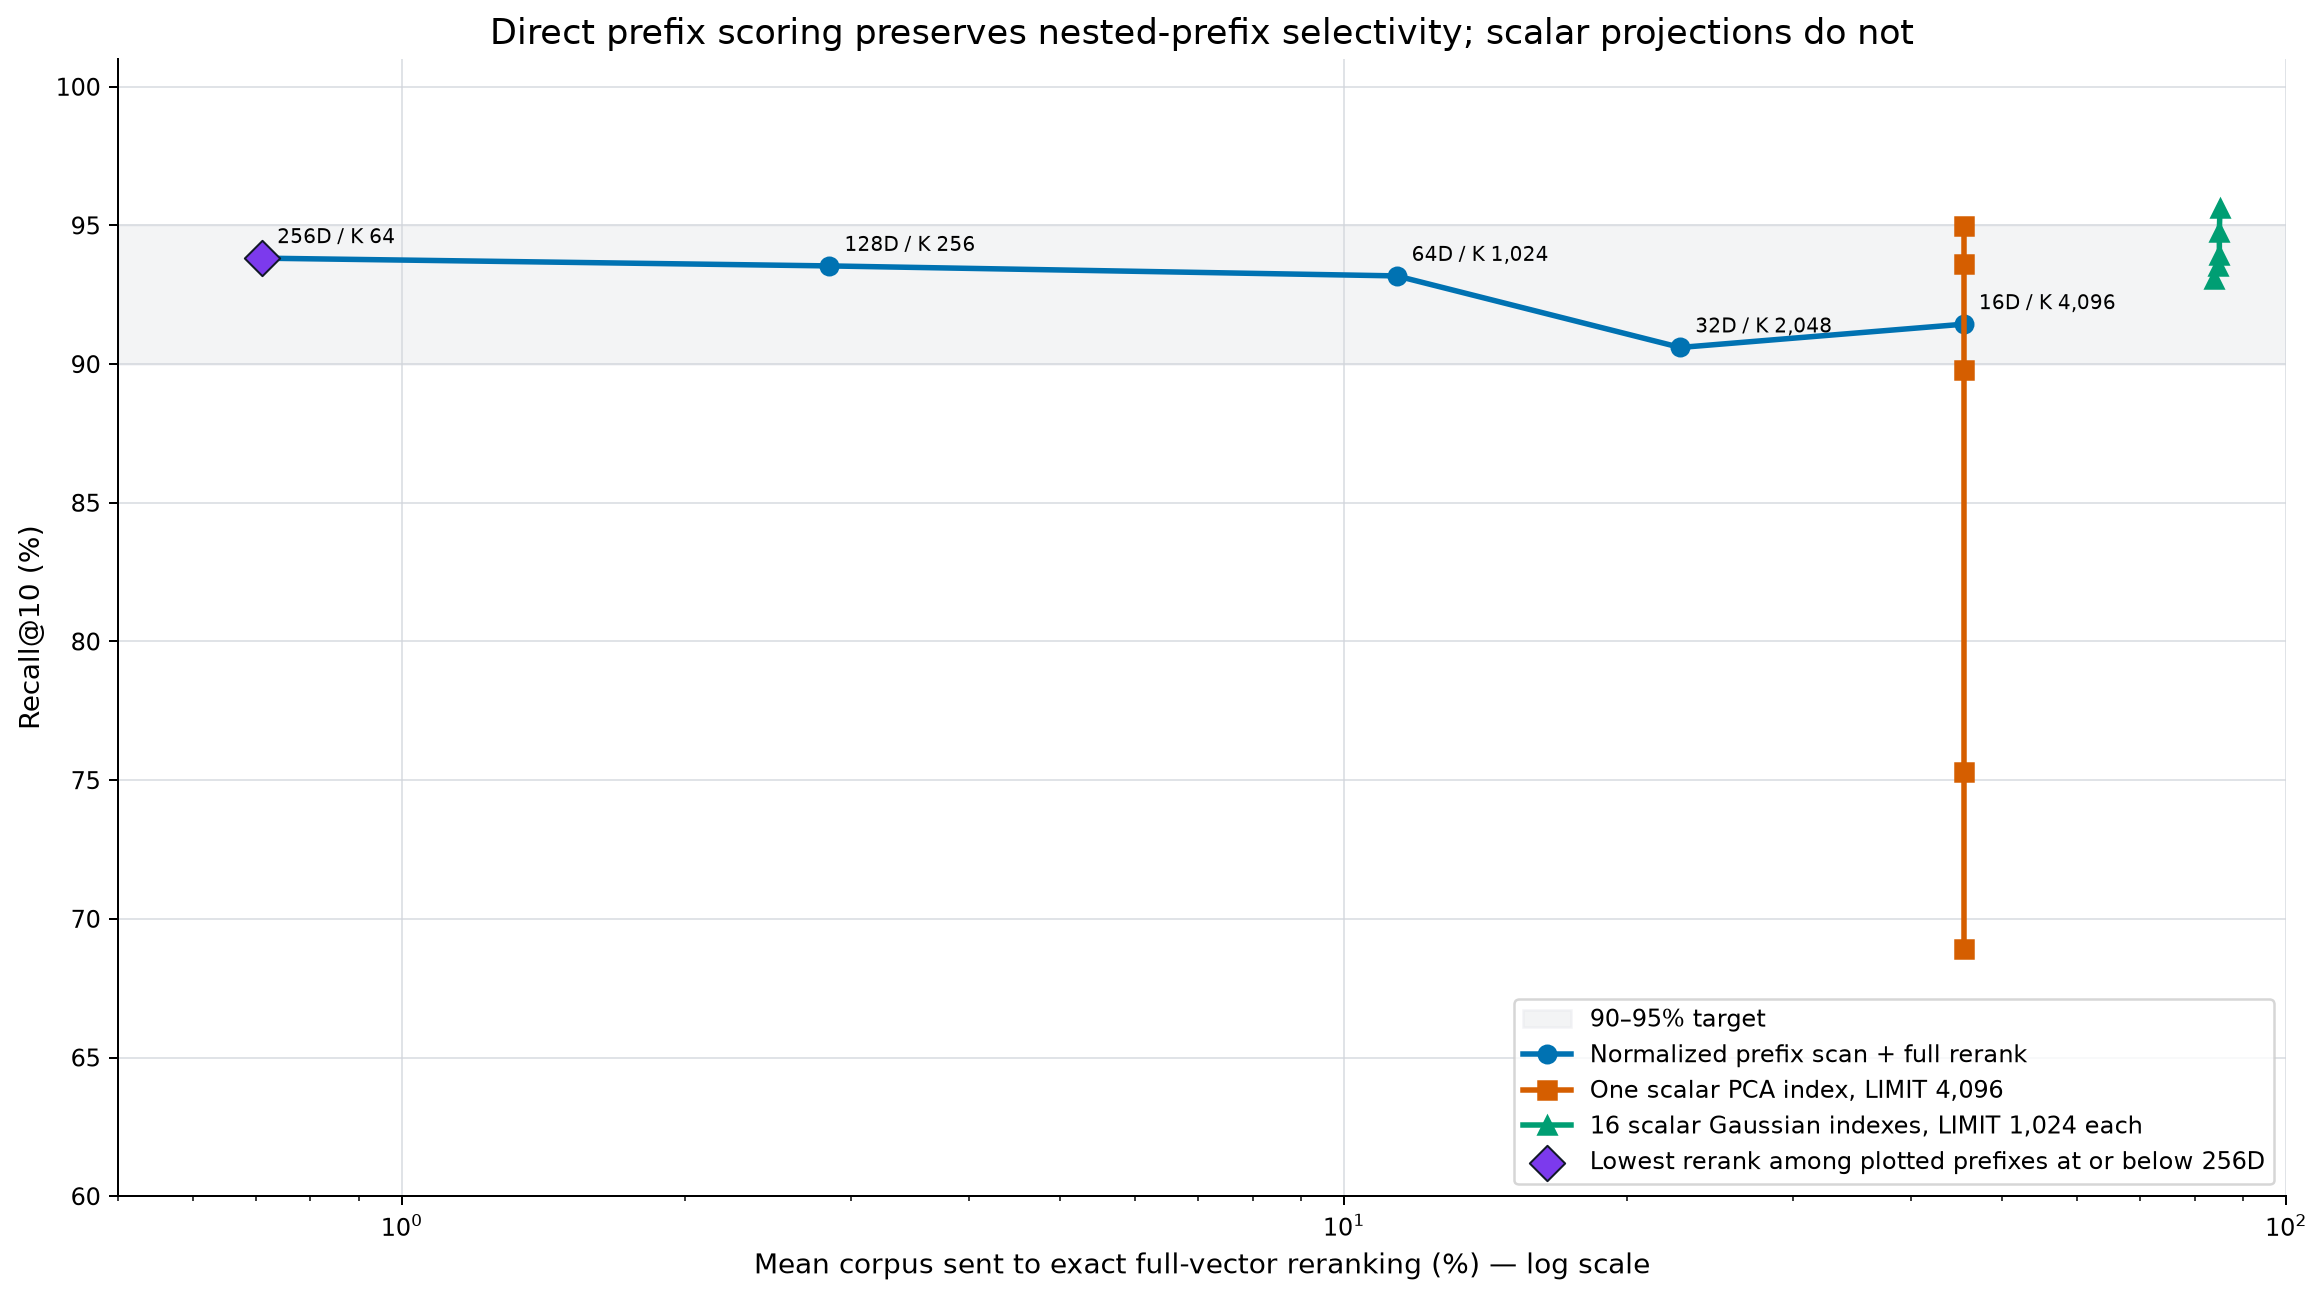
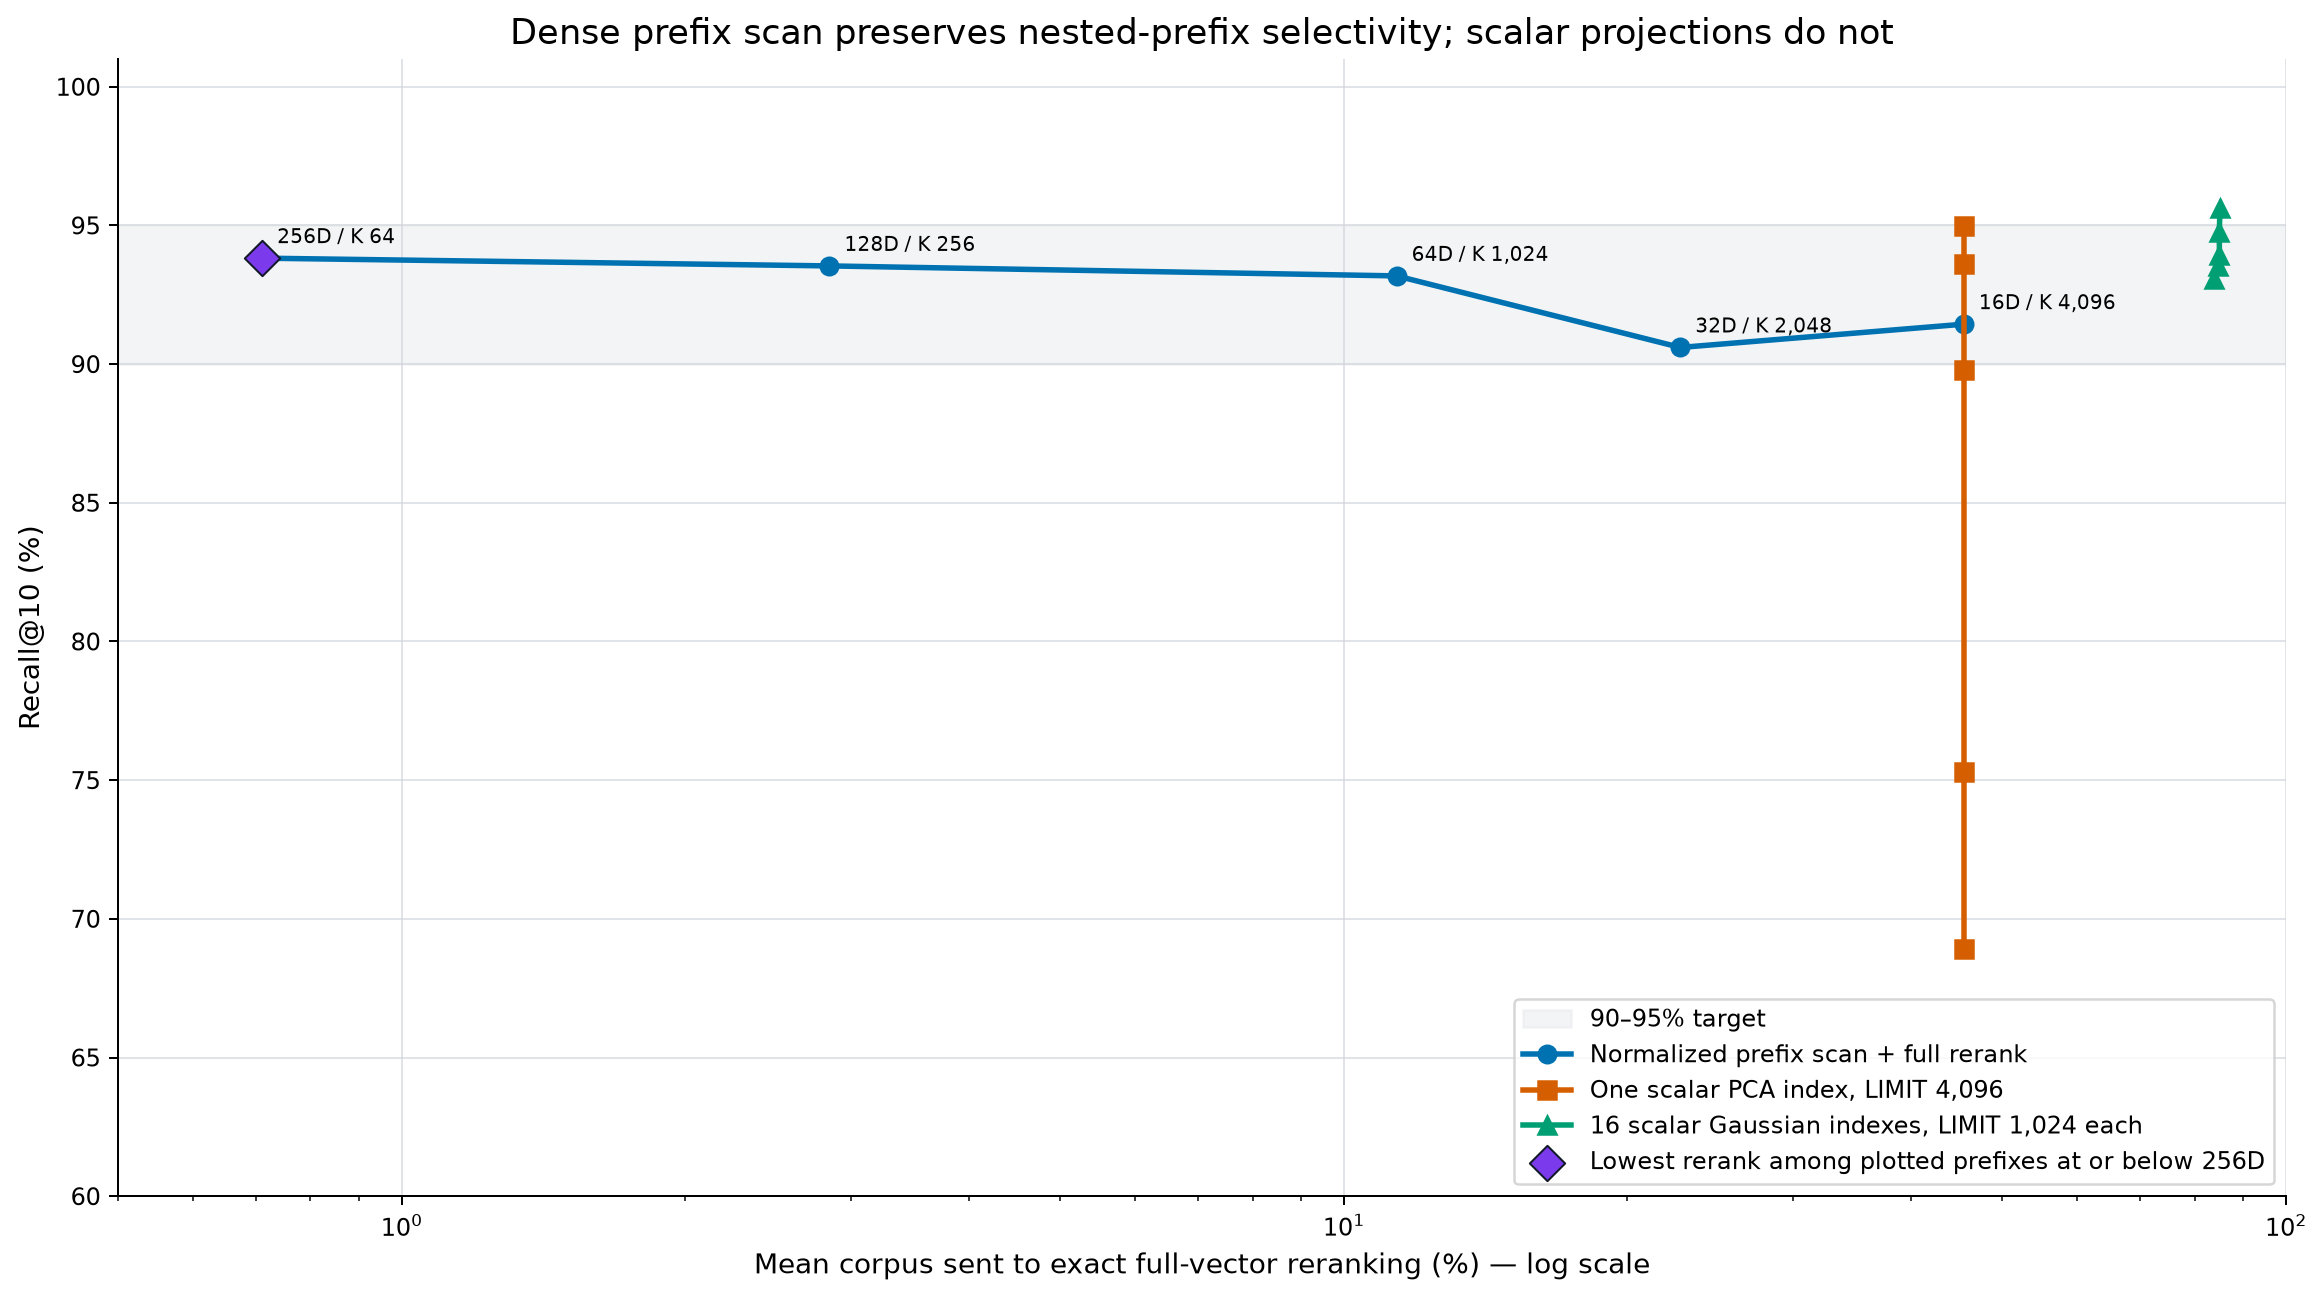
docs: clarify dense prefix scan

Changed region(s): [[0.2169, 0.0, 0.8365, 0.0308]]

diff --git a/docs/21-vector-ann.md b/docs/21-vector-ann.md
@@ -426,9 +426,9 @@ The [public 3,072D nested-prefix embedding sample](https://huggingface.co/datase
 
 [The source model API supports 128–3,072 output dimensions and recommends 768, 1,536, or 3,072](https://ai.google.dev/gemini-api/docs/models/gemini-embedding-2-preview). The 16D and 32D measurements below intentionally test the lower-dimension hypothesis outside that supported range; they are diagnostics, not production model settings. The experiment sliced the stored 3,072D vectors and L2-normalized every prefix before cosine scoring. [API-produced truncated vectors from the source model are already normalized](https://ai.google.dev/gemini-api/docs/embeddings#quality-for-smaller-dimensions).
 
-### Direct prefix tuning
+### Dense prefix-scan tuning
 
-Each row scans the listed prefix across all 9,000 corpus vectors, retains the listed power-of-two candidate count, and performs exact 3,072D reranking only for those candidates.
+For each $(d, K)$ configuration, the experiment computes cosine similarity on the normalized $d$-dimensional prefix for every one of the 9,000 filtered corpus rows, retains the top-$K$ candidates, and reranks only those candidates with the full 3,072-dimensional vectors. Tuning means selecting $d$ and $K$ under explicit recall, scan, storage, and rerank constraints; it does not train the embedding.
 
 | Prefix dimensions | Full-vector rerank candidates | Corpus reranked | Prefix storage versus 3,072D | Relative multiply-adds | Recall@10 |
 | ---: | ---: | ---: | ---: | ---: | ---: |
@@ -452,7 +452,7 @@ where $d$ is the prefix dimension, $N=9{,}000$ is the filtered corpus, and $K$ i
 
 ![Nested-prefix recall and resource tuning](assets/vector-ann-prefix-tuning.png)
 
-The result does not support using 16D or 32D as a narrow direct top-K search. Their direct top-10 Recall@10 values were only 5.26% and 12.54%. They exceed 90% only after sending 45.51% or 22.76% of the corpus to full-vector reranking. There is no single optimum in the 90–95% band: 128D with 256 candidates minimizes estimated multiply-adds; 1,536D with 10 candidates minimizes full-vector reranking but consumes half of a full-vector scan and adds 50% prefix storage. Under a prefix cap of 256D, 256D with 64 candidates has the smallest rerank share. For a target above 95%, the measured arithmetic choices are close: 128D with 512 candidates reached 96.86% recall at 9.86% relative multiply-adds, while 256D with 128 candidates reached 97.52% at 9.76%.
+The result does not support using 16D or 32D for a narrow prefix-only top-K search. Their prefix-only top-10 Recall@10 values were only 5.26% and 12.54%. They exceed 90% only after sending 45.51% or 22.76% of the corpus to full-vector reranking. There is no single optimum in the 90–95% band: 128D with 256 candidates minimizes estimated multiply-adds; 1,536D with 10 candidates minimizes full-vector reranking but consumes half of a full-vector scan and adds 50% prefix storage. Under a prefix cap of 256D, 256D with 64 candidates has the smallest rerank share. For a target above 95%, the measured arithmetic choices are close: 128D with 512 candidates reached 96.86% recall at 9.86% relative multiply-adds, while 256D with 128 candidates reached 97.52% at 9.76%.
 
 ### Scalar B-tree comparison
 
@@ -466,7 +466,7 @@ Nested-prefix selectivity comes from scoring the prefix as a vector. Re-projecti
 
 ![Nested-prefix and scalar-projection comparison](assets/vector-ann-prefix-methods.png)
 
-Use the direct prefix path when the storage engine or application can perform a dense prefix scan over the already-filtered partition. If only scalar B-tree access is available, `ProjectionProfile` can project `embedding[:d]`, but lower $d$ reduces projection computation rather than projection-row count or query fan-out. It does not reproduce direct-prefix candidate selectivity.
+Use the dense prefix-scan path when the storage engine or application can score every prefix in the already-filtered partition. If only scalar B-tree access is available, `ProjectionProfile` can project `embedding[:d]`, but lower $d$ reduces projection computation rather than projection-row count or query fan-out. Scalar projection does not reproduce dense prefix-scan candidate selectivity.
 
 ### Storage and query application
 
